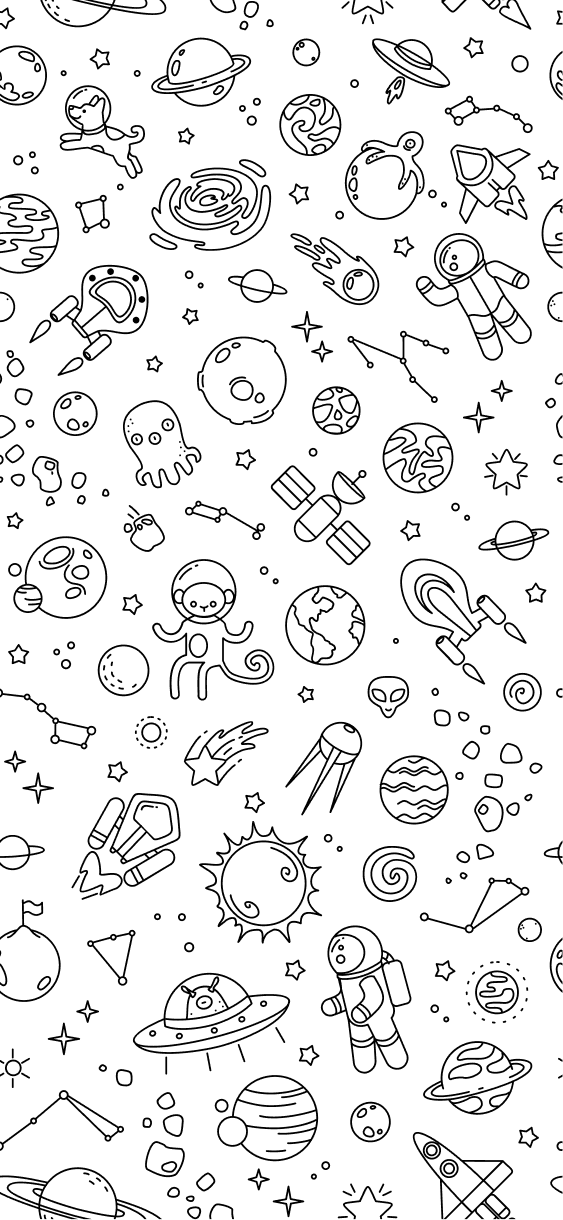
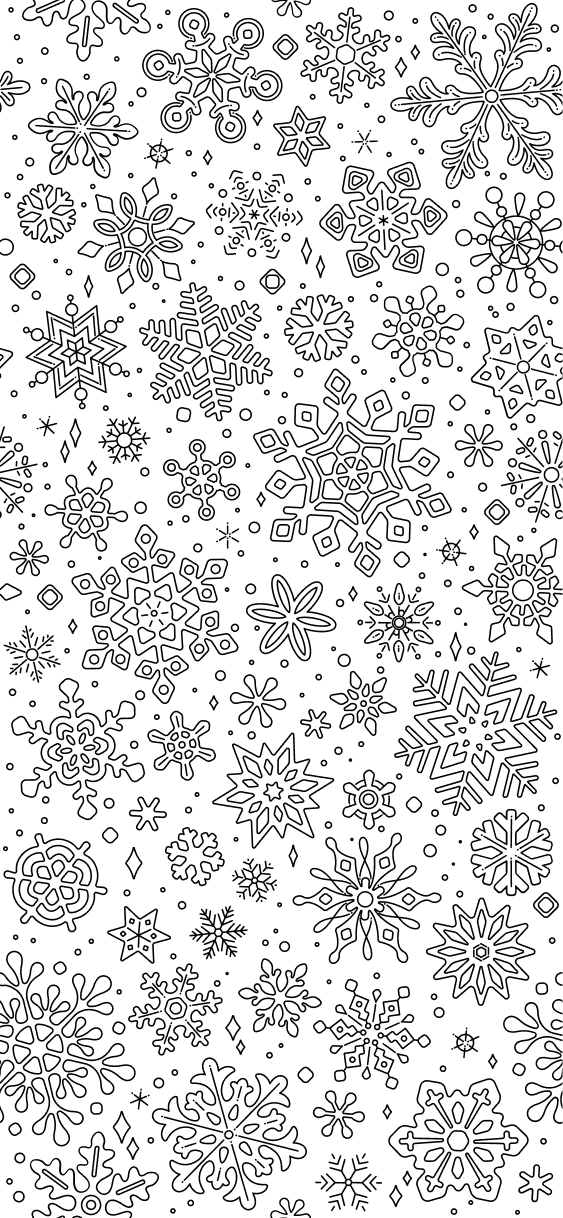
timeLine report

diff --git a/03.EndPoints/CRM.EndPoint.FrontEnd/wwwroot/css/reports.css b/03.EndPoints/CRM.EndPoint.FrontEnd/wwwroot/css/reports.css
@@ -19,18 +19,8 @@
 
 .report-wrapper {
   display: flex;
-  align-items: start;
+  /* align-items: start; */
   gap: 16px;
-}
-
-
-.reporter-image {
-  object-fit: cover;
-  aspect-ratio: 1;
-  width: clamp(33px, 4vw, 50px);
-  border-radius: 50%;
-  border: 1px solid rgba(0, 0, 0, 0.2);
-  margin-top: 6px;
 }
 
 
@@ -44,6 +34,7 @@
   padding: 4px 10px;
   /*    padding-right: 10px;*/
   width: 100%;
+  justify-content: space-between;
 }
 
 
@@ -127,9 +118,11 @@
 
 
 .report-ai-badge img {
-  /* width: 24px; */
-  object-fit: contain;
-  filter: brightness(0) invert(1);
+  color: white;
+  height: 14px;
+  width: auto;
+  display: block;
+  flex-shrink: 0;
 }
 
 
@@ -199,6 +192,65 @@
 }
 
 
+/*  */
+
+
+.report-sidebar-timeline {
+  display: flex;
+  flex-direction: column;
+  align-items: center;
+  position: relative;
+  gap: 10px;
+  margin-top: 6px;
+  min-width: clamp(34px, 5vw, 50px);
+  flex-shrink: 0;
+  align-self: start;
+}
+
+
+.reporter-image {
+  object-fit: cover;
+  aspect-ratio: 1;
+  border-radius: 50%;
+  background-color: #ffffff;
+  /* border: 1px solid rgba(0, 0, 0, 0.2); */
+  box-shadow: 0 0 0 1px rgba(0, 0, 0, 0.25);
+  margin-top: 0 !important;
+  z-index: 2;
+  flex-shrink: 0;
+  
+  width: clamp(34px, 4vw, 50px);
+}
+
+
+.report-sidebar-timeline.has-timeline .reporter-image.main-avatar {
+  width: clamp(34px, 4vw, 44px);
+}
+
+
+.reporter-image.transfer-avatar {
+  width: clamp(30px, 3.5vw, 34px);
+  cursor: help;
+  transition: transform 0.2s ease, box-shadow 0.2s ease;
+}
+
+
+.reporter-image.transfer-avatar:hover {
+  transform: scale(1.15);
+  box-shadow: 0 0 0 1px #a8b1bd;
+}
+
+
+.timeline-connection-line {
+  position: absolute;
+  top: 18px;
+  bottom: 18px;
+  width: 2px;
+  background: linear-gradient(to bottom, #d1d5db 0%, #a8b1bd 100%);
+  z-index: 0;
+}
+
+
 .report-dropdown {
   background-color: #fff;
   border-radius: 8px;
@@ -210,16 +262,6 @@
 }
 
 
-/*.report-dropdown__item {
-  padding: 4px 12px 4px 32px;
-  color: #414c5d;
-  cursor: pointer;
-  display: flex;
-  align-items: center;
-  gap: 12px;
-  transition: all 0.3s;
-  user-select: none;
-}*/
 .report-dropdown__item {
   color: #414c5d;
   cursor: pointer;
@@ -233,7 +275,6 @@
 
 .report-dropdown__item:first-child:hover {
   color: #1d293d;
-  /*    background-color: #ededed;*/
 }
 
 
@@ -244,7 +285,6 @@
 
 .report-dropdown__item:last-child:hover {
   color: #630000;
-  /*    background-color: #fce8e8;*/
 }
 
 
@@ -265,15 +305,19 @@
 
 
 @media (max-width: 767px) {
+  .report-wrapper {
+    gap: 12px;
+  }
+  
   .report-box {
     padding-right: 8px;
   }
   
   .report-box::before {
     top: 16px;
-    /*        right: -6px;
-            border: 7px solid transparent;
-            border-right: transparent;*/
+    /* right: -6px;
+    border: 7px solid transparent;
+    border-right: transparent; */
   }
   
   .report-info {
@@ -284,17 +328,16 @@
     padding-left: 8px;
   }
   
-  .report-wrapper {
-    gap: 13px;
-  }
-  
   .report-type-badge, .report-ai-badge {
     padding: 3px 8px;
   }
   
-  
   #allReportsId {
     padding-inline: .5rem;
-    height: calc(100dvh - 186px)
+    height: calc(100dvh - 186px);
+  }
+  
+  .report-sidebar-timeline {
+    gap: 16px;
   }
 }

diff --git a/03.EndPoints/CRM.EndPoint.FrontEnd/wwwroot/css/chat.css b/03.EndPoints/CRM.EndPoint.FrontEnd/wwwroot/css/chat.css
@@ -581,7 +581,7 @@
   left: 0;
   width: 100%;
   height: 100%;
-  background-image: url("../Img/chat-bg-2.png");
+  background-image: url("../Img/chat-bg.png");
   background-size: 300px;
   opacity: 0.1;
   pointer-events: none;

diff --git a/03.EndPoints/CRM.EndPoint.FrontEnd/Controllers/ReportController.cs b/03.EndPoints/CRM.EndPoint.FrontEnd/Controllers/ReportController.cs
@@ -216,7 +216,14 @@ namespace CRM.EndPoint.FrontEnd.Controllers {
         {
             var data = await GetAllReports(model, dealId);
 
-            var userIds = data.Select(r => r.UserCreatorID).Distinct().ToList();
+            //var userIds = data.Select(r => r.UserCreatorID).Distinct().ToList();
+
+            var userIds = data.Select(r => r.UserCreatorID)
+                .Union(data.SelectMany(r => r.Participants.Select(p => p.UserId)))
+                .Where(id => !string.IsNullOrEmpty(id))
+                .Distinct()
+                .ToList();
+
             var userImages = await udb.Users
                 .Where(u => userIds.Contains(u.Id))
                 .ToDictionaryAsync(u => u.Id, u => u.PersonImageUrl);
@@ -225,6 +232,12 @@ namespace CRM.EndPoint.FrontEnd.Controllers {
             {
                 if (userImages.TryGetValue(r.UserCreatorID, out var img))
                     r.UserImage = img;
+
+                foreach (var p in r.Participants ?? [])
+                {
+                    if (userImages.TryGetValue(p.UserId, out var pImg))
+                        p.UserImage = pImg;
+                }
             }
 
             var html = await vrs.RenderToStringAsync("GetAllReportPartial", data,
@@ -241,9 +254,13 @@ namespace CRM.EndPoint.FrontEnd.Controllers {
         {
             var user = await userManager.GetUserAsync(HttpContext.User);
             var rols = await userManager.GetRolesAsync(user);
-            var qData = db.Reports.AsNoTracking().OrderByDescending(f => f.CreateDate).AsQueryable();
+            var qData = db.Reports.AsNoTracking()
+                .Include(r => r.Participants)
+                .OrderByDescending(r => r.CreateDate)
+                .AsQueryable();
 
-            ViewBag.IsManager = rols.Contains("مدیر ارشد") || rols.Contains("مدیر فروش") || rols.Contains("مدیر عامل") || rols.Contains("مدیر اجرایی");
+            ViewBag.IsManager = rols.Contains("مدیر ارشد") || rols.Contains("مدیر فروش") || rols.Contains("مدیر عامل") ||
+                                rols.Contains("مدیر اجرایی");
             ViewBag.CurrentUserId = user.Id;
 
             if (dealId != null)

diff --git a/03.EndPoints/CRM.EndPoint.FrontEnd/Services/AI/AiPrompts.cs b/03.EndPoints/CRM.EndPoint.FrontEnd/Services/AI/AiPrompts.cs
@@ -1,12 +1,15 @@
+using System.Collections.Generic;
+using System.Linq;
+
 namespace CRM.EndPoint.FrontEnd.Services.AI;
 
 public class AiPrompts {
-    public string SummarizeCall(string text, string expertName)
+    public string SummarizeCall(string text, string expertsName = "")
     {
         return $@"
             شما دستیار ثبت گزارش تماس CRM شرکت «وزین پلاست» هستید.
 
-            کارشناس فروش این تماس: {expertName}
+            کارشناسان فروش این تماس: {expertsName}
             این شخص مشتری نیست و هرگز نباید به عنوان customer استخراج شود.
 
             زمینه فعالیت:
@@ -117,7 +120,7 @@ public class AiPrompts {
             شما دستیار ثبت گزارش تماس برای CRM شرکت «وزین پلاست» هستید.
 
             کارشناس فروش این تماس:
-            {expertName}
+            {expertsName}
 
             زمینه:
             شرکت در حوزه تولید نایلون، نایلکس، شیرینک و محصولات پلیاتیلنی فعالیت میکند.

diff --git a/03.EndPoints/CRM.EndPoint.FrontEnd/Services/AI/AiService.cs b/03.EndPoints/CRM.EndPoint.FrontEnd/Services/AI/AiService.cs
@@ -47,7 +47,7 @@ public class AiService(
             }
 
             // 3. Summary
-            var resSummary = await gapgptAi.SummarizeText(callData.TranscriptionText, callData.DestinationUserTxt);
+            var resSummary = await gapgptAi.SummarizeText(callData.TranscriptionText, callData.CallParticipant.Select(f => f?.UserFullName).ToList());
             if (resSummary != null)
             {
                 callData.SummaryText = resSummary.summary?.Trim();
@@ -123,7 +123,7 @@ public class AiService(
                     UserId = participant.UserId,
                     UserFullName = participant.UserFullName,
                     AnswerTime = participant.AnswerTime,
-                    AnswerTimeTxt = dts.GetDatePersian(),
+                    AnswerTimeTxt = dts.GetDateTimePersian(participant.AnswerTime),
                     SortOrder = order++
                 });
             }

diff --git a/03.EndPoints/CRM.EndPoint.FrontEnd/Services/AI/GapgptAi.cs b/03.EndPoints/CRM.EndPoint.FrontEnd/Services/AI/GapgptAi.cs
@@ -1,4 +1,5 @@
 using System;
+using System.Collections.Generic;
 using System.Net.Http;
 using System.Net.Http.Json;
 using System.Text.Json;
@@ -23,12 +24,12 @@ public class GapgptAi {
     }
 
     // خلاصه نویسی
-    public async Task<SummaryModel> SummarizeText(string textToSummarize, string userName) // https://gapgpt.app/platform-v2/tokens
+    public async Task<SummaryModel> SummarizeText(string textToSummarize, List<string> userNames) // https://gapgpt.app/platform-v2/tokens
     {
         try
         {
             logger.LogInformation("Summarize started");
-            var prompt = _aiPrompts.SummarizeCall(textToSummarize, userName);
+            var prompt = _aiPrompts.SummarizeCall(textToSummarize, string.Join(", ", userNames));
 
             var requestBody = new {
                 //model = "gapgpt-qwen-3.6",

diff --git a/01.Core/CRM.Core.Domain/Reports/Entities/ReportParticipant.cs b/01.Core/CRM.Core.Domain/Reports/Entities/ReportParticipant.cs
@@ -1,4 +1,5 @@
 using System;
+using System.ComponentModel.DataAnnotations.Schema;
 
 namespace CRM.Core.Domain.Reports.Entities;
 
@@ -13,4 +14,6 @@ public class ReportParticipant {
     public DateTime AnswerTime { get; set; }
     public string AnswerTimeTxt { get; set; }
     public int SortOrder { get; set; }
+
+    [NotMapped] public string UserImage { get; set; }
 }
